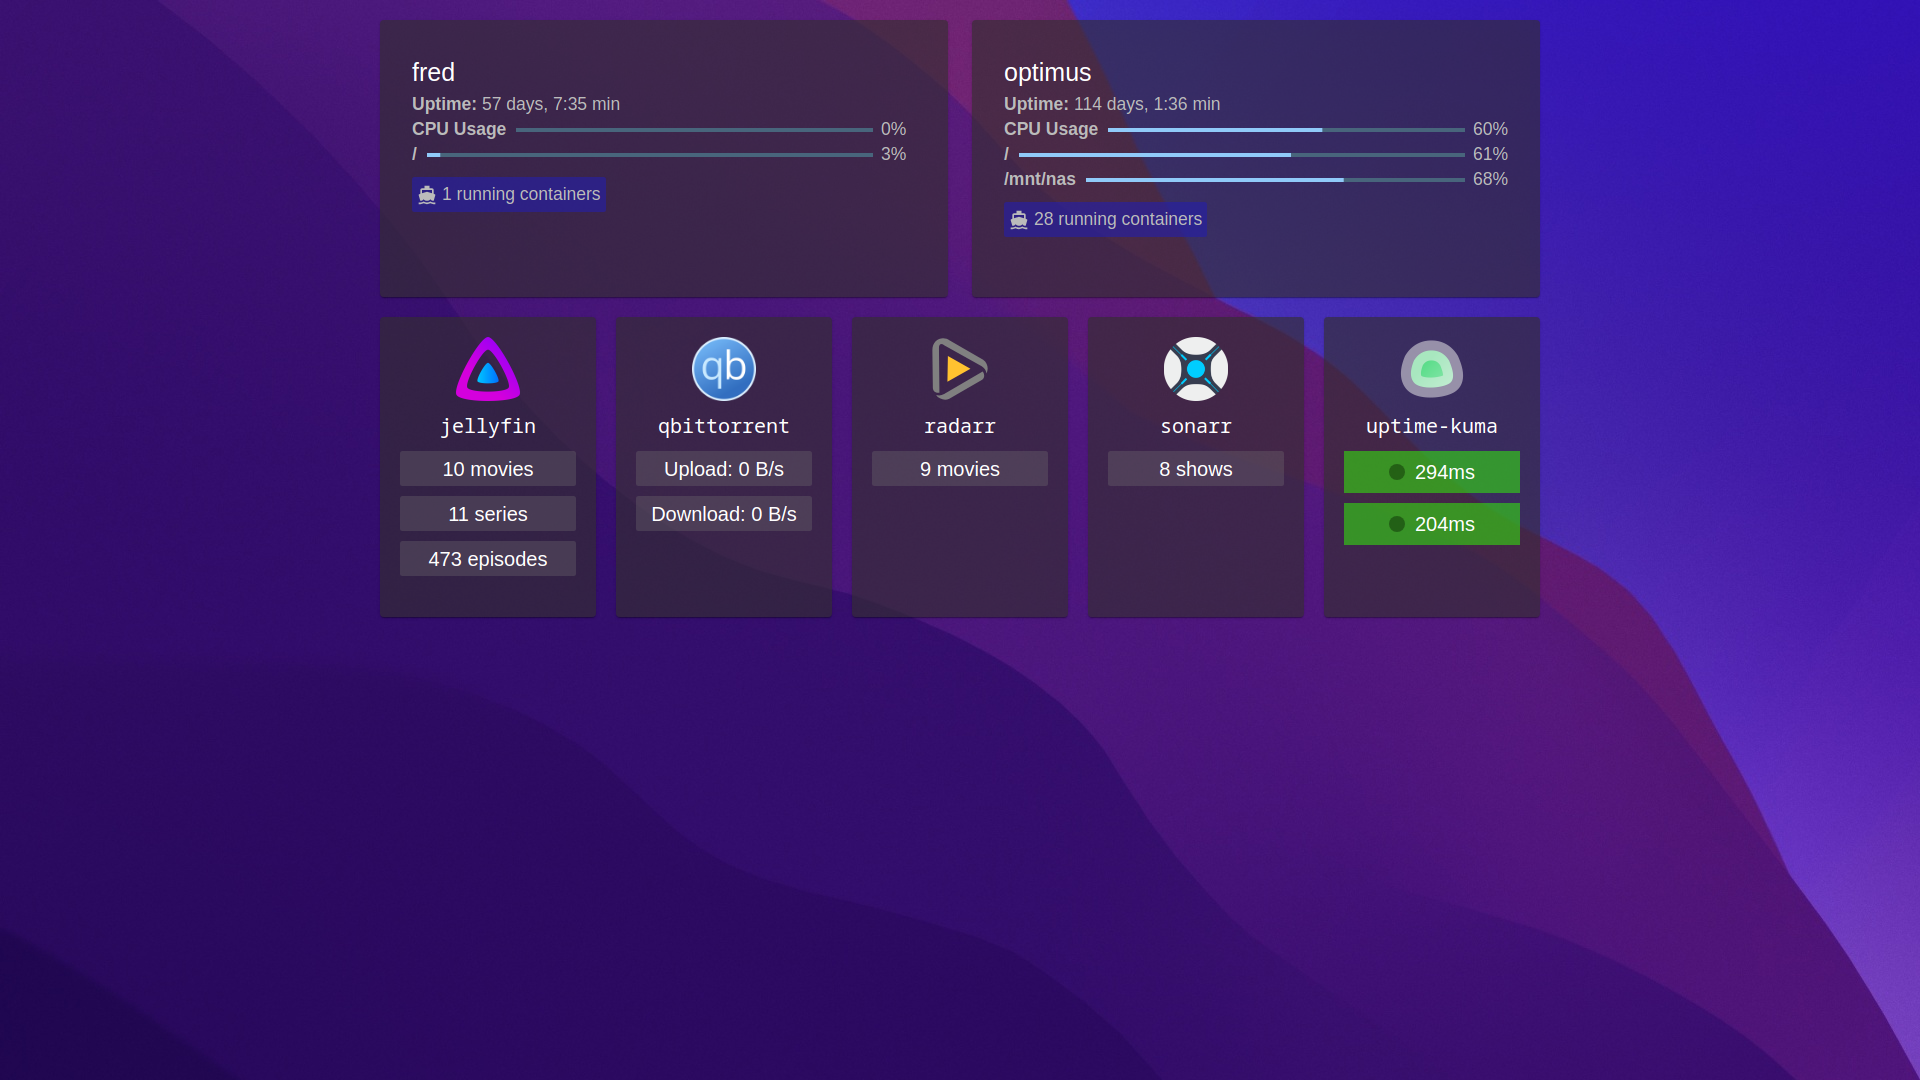
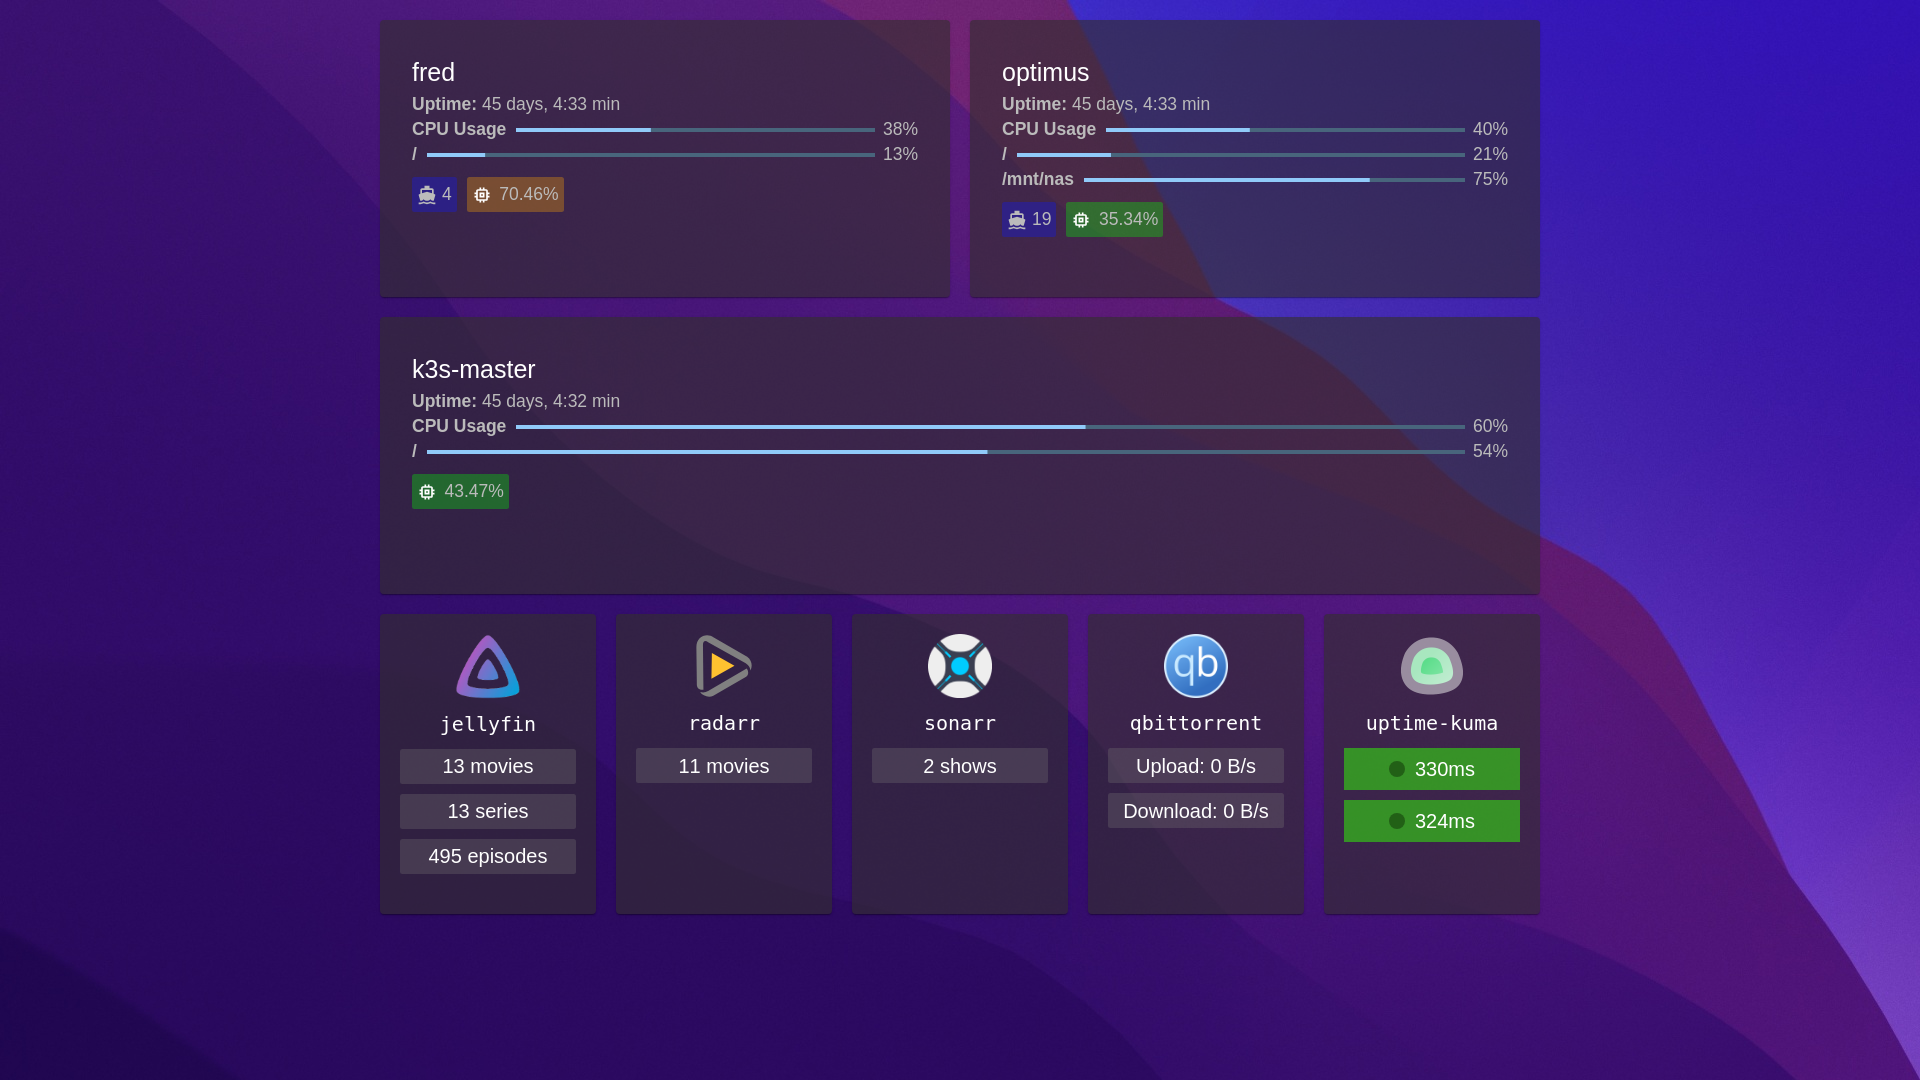
chore: optimize ui

diff --git a/src/components/host/command-queue/command-queue.tsx b/src/components/host/command-queue/command-queue.tsx
@@ -10,6 +10,7 @@ import { deleteJob } from "@/lib/utils";
 import { toast } from "react-toastify";
 import ContextMenu from "@/components/shared/context-menu/context-menu";
 import CursorTooltip from "@/components/shared/cursor-tooltip";
+import { TableLoader } from "@/components/dashboard/widgets/skeletons/table-loader";
 
 interface CommandQueue extends PaperProps {
   commands: QueuedCommand[];
@@ -30,17 +31,19 @@ export const CommandQueue = ({
   refreshQueue,
   setOpen,
   ...rest
-}: CommandQueue): JSX.Element => {
+}: CommandQueue) => {
   const { contextMenuState, showContextMenu, hideContextMenu } =
     useContextMenu();
 
   const handleShowOutput = (command: QueuedCommand) => {
-    const combinedOutput = Object.values(command.output).reduce(
+    let combinedOutput = Object.values(command.output).reduce(
       (accumulator, current) => {
         return accumulator + current.stdout + "\n" + current.stderr + "\n";
       },
       ""
     );
+
+    combinedOutput = `$ ${command.commands[0].command}\n${combinedOutput}`;
     setViewedResult(combinedOutput);
     setOpen();
   };
@@ -83,6 +86,10 @@ export const CommandQueue = ({
       return () => clearInterval(intervalId);
     }
   }, [host]);
+
+  if (commands.length === 0) {
+    return <TableLoader className={classes.loader} />;
+  }
 
   return (
     <Paper className={classes.previousCommands} {...rest}>

diff --git a/src/components/dashboard/dashboard.tsx b/src/components/dashboard/dashboard.tsx
@@ -27,18 +27,14 @@ const Dashboard = () => {
     <>
       <Container maxWidth="lg" className={classes["server-manager-container"]}>
         <div className={classes.servers}>
-          <Grid container spacing={3}>
-            {hosts.map((host) => (
-              <Grid item xs={12} sm={6} md={6} key={host}>
-                <HostOverview
-                  key={host}
-                  host={host}
-                  onClick={() => handleClick(host)}
-                  className={classes.overview}
-                />
-              </Grid>
-            ))}
-          </Grid>
+          {hosts.map((host) => (
+            <HostOverview
+              key={host}
+              host={host}
+              onClick={() => handleClick(host)}
+              className={classes.overview}
+            />
+          ))}
         </div>
         <div className={classes.integrations}>
           {Object.values(integrations).map((integration) => (

diff --git a/src/components/shared/command/command-table/command-table.tsx b/src/components/shared/command/command-table/command-table.tsx
@@ -9,6 +9,7 @@ import { useContextMenu } from "@/lib/hooks/useContextMenu";
 import { toast } from "react-toastify";
 import { useToast } from "@/lib/hooks/useToast";
 import CursorTooltip from "@/components/shared/cursor-tooltip";
+import { TableLoader } from "@/components/dashboard/widgets/skeletons/table-loader";
 
 interface CommandTableProps {
   host: string;
@@ -74,6 +75,10 @@ const CommandTable = ({ host, refreshQueue, className }: CommandTableProps) => {
   useEffect(() => {
     fetchAndSet(`/api/${host}/commands`, setCommands);
   }, [host]);
+
+  if (commands.length === 0) {
+    return <TableLoader className={classes.loader} />;
+  }
 
   return (
     <>

diff --git a/src/components/dashboard/widgets/skeletons/table-loader/table-loader.tsx b/src/components/dashboard/widgets/skeletons/table-loader/table-loader.tsx
@@ -1,13 +1,13 @@
 import React from "react";
-import classes from "./host-loader.module.css";
+import classes from "./table-loader.module.css";
 import { Skeleton } from "@mui/material";
 import clsx from "clsx";
 
-export type HostLoaderProps = {
+export type TableLoaderProps = {
   className?: string;
 };
 
-export const HostLoader = ({ className }: HostLoaderProps) => {
+export const TableLoader = ({ className }: TableLoaderProps) => {
   return (
     <div className={clsx(classes.host, className)}>
       <Skeleton variant="rectangular" className={classes.skeleton} />

diff --git a/docs/takeDocsPhotos.ts b/docs/takeDocsPhotos.ts
@@ -2,10 +2,10 @@ import puppeteer from "puppeteer";
 
 (async () => {
   const pages = [
-    { name: "./docs/main_page.png", path: "http://localhost:3030" },
+    { name: "./docs/main_page.png", path: "http://localhost:3000" },
     {
       name: "./docs/server_page.png",
-      path: "http://localhost:3030/host/optimus",
+      path: "http://localhost:3000/host/optimus",
     },
   ];
 

diff --git a/src/components/dashboard/dashboard.module.css b/src/components/dashboard/dashboard.module.css
@@ -2,13 +2,23 @@
   padding: 20px;
 }
 
+.servers {
+  margin-bottom: 1rem;
+  display: flex;
+  flex-wrap: wrap;
+  gap: 1rem;
+
+  width: 100%;
+}
+
+.overview {
+  width: 49% !important;
+  flex-grow: 1;
+}
+
 .overview:hover {
   background-color: var(--paper-hover-color);
   cursor: pointer;
-}
-
-.servers {
-  margin-bottom: 1rem;
 }
 
 .integrations {

diff --git a/src/components/shared/host-overview/host-overview.tsx b/src/components/shared/host-overview/host-overview.tsx
@@ -55,7 +55,7 @@ const HostOverview = ({
   }, [host]);
 
   if (isLoading) {
-    return <HostLoader />;
+    return <HostLoader className={clsx(classes.loader, className)} />;
   }
 
   return (

diff --git a/src/components/shared/command/command-table/command-table.module.css b/src/components/shared/command/command-table/command-table.module.css
@@ -9,3 +9,9 @@
 .row:hover {
   background-color: var(--paper-hover-color);
 }
+
+.loader {
+  height: 17.5rem;
+  background-color: transparent;
+  padding: 1rem;
+}

diff --git a/src/components/host/command-queue/command-queue.module.css b/src/components/host/command-queue/command-queue.module.css
@@ -41,3 +41,9 @@
 .table {
   height: 100%;
 }
+
+.loader {
+  height: 17.5rem;
+  background-color: transparent;
+  padding: 1rem;
+}

diff --git a/src/components/dashboard/widgets/skeletons/host-loader/host-loader.module.css b/src/components/dashboard/widgets/skeletons/host-loader/host-loader.module.css
@@ -9,5 +9,5 @@
 
 .skeleton {
   width: 100%;
-  height: 12.25rem;
+  height: 100%;
 }

diff --git a/src/components/shared/host-overview/host-overview.module.css b/src/components/shared/host-overview/host-overview.module.css
@@ -20,4 +20,6 @@
   gap: 0.5rem;
 }
 
-
+.loader {
+  height: 12.25rem;
+}

diff --git a/src/components/dashboard/widgets/skeletons/table-loader/table-loader.module.css b/src/components/dashboard/widgets/skeletons/table-loader/table-loader.module.css
@@ -1,0 +1,4 @@
+.skeleton {
+  height: 100%;
+  width: 100%;
+}
